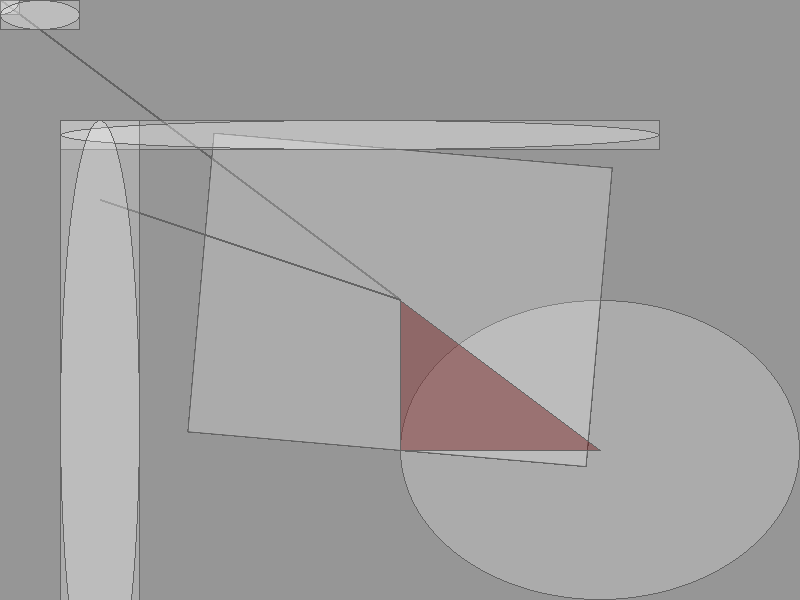
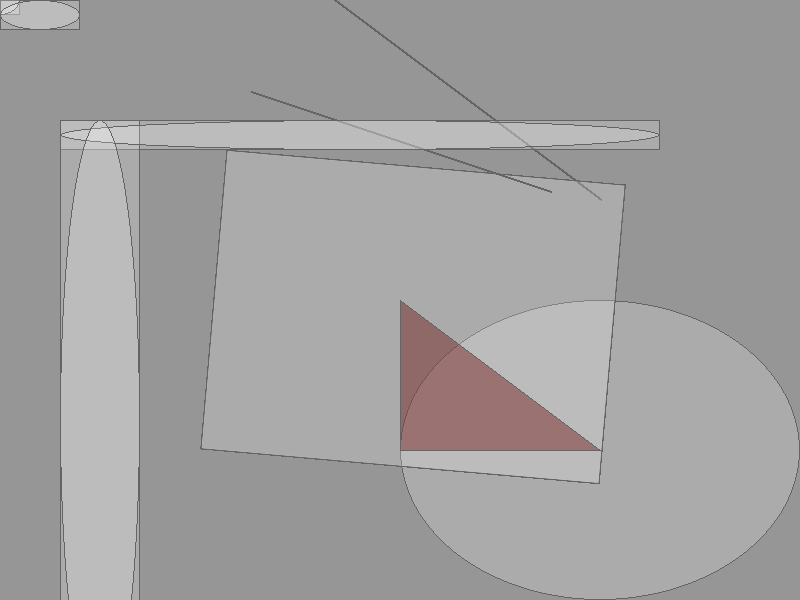
rebuild costume-getting, more robust and explicit approach to costumes

diff --git a/source/miniworlds/worlds/manager/position_manager.py b/source/miniworlds/worlds/manager/position_manager.py
@@ -37,11 +37,16 @@ class Positionmanager:
         return self._origin
 
     @origin.setter
-    def origin(self, value):
-        if value not in ["center", "topleft"]:
+    def origin(self, value: str) -> None:
+        """Set the origin. Only 'center' or 'topleft' are allowed."""
+        if value not in {"center", "topleft"}:
             raise exceptions.OriginException(self.actor)
+
         self._origin = value
-        self.actor.costume.origin_changed()
+
+        costume = self.actor.costume
+        if costume:
+            costume.origin_changed()
 
     def switch_origin(self, value: str):
         if self.origin == "center" and value == "topleft":
@@ -58,54 +63,66 @@ class Positionmanager:
         return self.actor
 
     def get_global_rect(self) -> pygame.Rect:
-        """Global rect is the the position of the actor on the global
-        world.
-        This position can be outside the current screen.
+        """Returns the global rect of the actor in the world space.
+        
+        This rect may lie outside the visible screen.
 
         Returns:
-            pygame.Rect: A rect with the token coordinates.
+            pygame.Rect: A rect with the actor's global coordinates.
         """
-        if self.actor.costume:
-            _rect = self.actor.costume.get_rect()
+        print("has costume", self.actor.costume_manager.has_costume)
+        if self.actor.costume_manager.has_costume:
+            costume = self.actor.costume
+            rect = costume.get_rect()
         else:
-            _rect = pygame.Rect(0, 0, self.actor.size[0], self.actor.size[1])
+            width, height = self.actor.size
+            rect = pygame.Rect(0, 0, width, height)
+
         if self.origin == "center":
-            _rect.center = self.get_center()
+            rect.center = self.get_center()
         elif self.origin == "topleft":
-            _rect.topleft = self.get_topleft()
-        return _rect
+            rect.topleft = self.get_topleft()
+        print("rect", rect)
+        return rect
 
     def get_local_rect(self) -> pygame.Rect:
         """
-        Local rect is the position of the actor on the view
-        (defined by camera view)
+        Returns the position of the actor on the screen (camera view).
+        
+        The local rect is derived from the global position and transformed
+        into the camera's coordinate system.
         """
-        _rect = self.get_global_rect()
+        rect = self.get_global_rect()
+
+        camera = self.actor.world.camera
         if self.origin == "center":
-            _rect.center = self.actor.world.camera.get_local_position(
-                self.get_center()
-            )
+            rect.center = camera.get_local_position(self.get_center())
         elif self.origin == "topleft":
-            _rect.topleft = self.actor.world.camera.get_local_position(
-                self.get_topleft()
-            )
+            rect.topleft = camera.get_local_position(self.get_topleft())
         else:
-            raise Exception
-        return _rect
-    
+            raise ValueError(f"Unsupported origin type: {self.origin!r}")
+        
+        return rect
+
     def get_screen_rect(self) -> pygame.Rect:
         """
-        Screen rect is the position of the actor inside the current screen.
-        (defined by camera view and window position of world)
+        Returns the position of the actor on the physical screen.
+        
+        The screen rect is based on global coordinates, transformed
+        by the camera and the world's window position.
         """
-        _rect = self.get_global_rect()
+        rect = self.get_global_rect()
+        camera = self.actor.world.camera
+
         if self.origin == "center":
-            _rect.center = self.actor.world.camera.get_screen_position(self.get_center())
+            rect.center = camera.get_screen_position(self.get_center())
         elif self.origin == "topleft":
-            _rect.topleft = self.actor.world.camera.get_screen_position(self.get_topleft())
+            rect.topleft = camera.get_screen_position(self.get_topleft())
         else:
-            raise Exception
-        return _rect
+            raise ValueError(f"Unsupported origin type: {self.origin!r}")
+
+        return rect
+
     
     def get_direction(self):
         direction = (self._direction + 180) % 360 - 180

diff --git a/source/miniworlds/actors/shapes/shapes.py b/source/miniworlds/actors/shapes/shapes.py
@@ -30,10 +30,13 @@ class Shape(actor.Actor):
 
     def __init__(self, position: Tuple[float, float] = (0, 0), *args, **kwargs):
         super().__init__(position, *args, **kwargs)
+        self.costume_manager.has_appearance = True
 
     def new_costume(self):
         return shape_costume.ShapeCostume(self)
 
+    def get_costume_class(self) -> type["costume_mod.Costume"]:
+        return shape_costume.ShapeCostume
 
 class Circle(Shape):
     """
@@ -66,6 +69,7 @@ class Circle(Shape):
     def __init__(self, position=(0, 0), radius: float = 10, *args, **kwargs):
         self._radius = radius
         super().__init__(position, *args, **kwargs)
+        self.costume = shape_costume.CircleCostume(self)
         self.position_manager.set_size((self._radius * 2, self._radius * 2), scale = False)
         
     @property
@@ -86,9 +90,6 @@ class Circle(Shape):
         self.physics.can_move = True
         self.physics.stable = False
 
-    def new_costume(self):
-        return shape_costume.CircleCostume(self)
-
     @classmethod
     def from_topleft(cls, position: tuple, radius: int, **kwargs):
         """Creates a circle with topleft at position"""
@@ -102,6 +103,12 @@ class Circle(Shape):
         circle = cls(position, radius, **kwargs)
         circle.origin = "center"
         return circle
+
+    def new_costume(self):
+        return shape_costume.CircleCostume(self)
+
+    def get_costume_class(self) -> type["costume_mod.Costume"]:
+        return shape_costume.CircleCostume
 
 
 class Point(Circle):
@@ -173,6 +180,11 @@ class Ellipse(Shape):
         ellipse.origin = "center"
         return ellipse
 
+    def new_costume(self):
+        return shape_costume.EllipseCostume(self)
+
+    def get_costume_class(self) -> type["costume_mod.Costume"]:
+        return shape_costume.EllipseCostume
 
 class Arc(Ellipse):
     """
@@ -365,6 +377,11 @@ class Line(Shape):
 
     line_width = thickness
 
+    def new_costume(self):
+        return shape_costume.LineCostume(self)
+
+    def get_costume_class(self) -> type["costume_mod.Costume"]:
+        return shape_costume.LineCostume
 
 class Rectangle(Shape):
     """
@@ -427,6 +444,13 @@ class Rectangle(Shape):
         rectangle = cls(position, width, height)
         rectangle.center = rectangle.position
         return rectangle
+
+
+    def new_costume(self):
+        return shape_costume.RectangleCostume(self)
+
+    def get_costume_class(self) -> type["costume_mod.Costume"]:
+        return shape_costume.RectangleCostume
 
 
 class Polygon(Shape):

diff --git a/source/miniworlds/worlds/world.py b/source/miniworlds/worlds/world.py
@@ -1097,19 +1097,18 @@ class World(world_base.WorldBase):
         wait = max(0, (1 / self.fps) - elapsed)
         await asyncio.sleep(wait)
         
-
     def _update_all_costumes(self):
-        """updates costumes for all actors on the world"""
-        [
-            actor.costume.update()
-            for actor in self.reload_costumes_queue
-            if actor.costume
-        ]
-        self.reload_costumes_queue = []
-        # Dynamic actors are updated every frame
-        # All other actors are updated when they are created.
+        """Updates the costumes of all actors in the world."""
+
+        for actor in self.reload_costumes_queue:
+            if actor.costume:
+                actor.costume.update()
+        self.reload_costumes_queue.clear()
+
         if hasattr(self, "dynamic_actors"):
-            [actor.costume.update() for actor in self.dynamic_actors if actor.costume]
+            for actor in self.dynamic_actors:
+                if actor.costume:
+                    actor.costume.update()
 
     def _act_all(self):
         """Overwritten in subclasses, e.g. physics_world"""

diff --git a/source/miniworlds/actors/actor.py b/source/miniworlds/actors/actor.py
@@ -569,9 +569,16 @@ class Actor(pygame.sprite.DirtySprite, metaclass=Meta):
 
     @property
     def costume(self) -> costume_mod.Costume:
-        """Gets the costume of actor"""
-        if hasattr(self, "costume_manager") and self.costume_manager is not None:
-            return self.costume_manager.get_actual_appearance()
+        """Gets the costume of the actor, if available."""
+        cm = getattr(self, "costume_manager", None)
+        if cm is not None: # not None instead of if cm:, because len(cm) can be zero
+            return cm.get_actual_appearance()
+
+    def has_costume(self):
+        cm = getattr(self, "costume_manager", None)
+        if not cm or not cm.has_appearance:
+            return False
+
 
     @costume.setter
     def costume(self, value):

diff --git a/source/miniworlds/appearances/appearances_manager.py b/source/miniworlds/appearances/appearances_manager.py
@@ -1,4 +1,6 @@
 from typing import Union, Tuple, List
+from abc import ABC, abstractmethod
+
 
 import miniworlds
 import miniworlds.appearances.appearance as appearance_mod
@@ -8,7 +10,8 @@ from miniworlds.base.exceptions import MiniworldsError
 import pygame
 
 
-class AppearancesManager:
+
+class AppearancesManager(ABC):
     def __init__(self, parent):
         self.appearances_list = []
         self.parent = parent
@@ -103,6 +106,7 @@ class AppearancesManager:
             appearance.add_image(source)
         return appearance
 
+    @abstractmethod
     def create_appearance(self) -> "appearance_mod.Appearance":
         """Returns a new appearance (Background instance or Costume instance)"""
         pass
@@ -371,5 +375,7 @@ class AppearancesManager:
         for appearance in self.appearances_list:
             appearance.border = value
 
-    def get_actual_appearance(self):
+    def get_actual_appearance(self) -> "appearance_mod.Appearance":
+        if not self.appearance:
+            self._add_default_appearance()
         return self.appearance

diff --git a/source/miniworlds/actors/texts/text.py b/source/miniworlds/actors/texts/text.py
@@ -123,3 +123,6 @@ class Text(actor.Actor):
     @value.setter
     def value(self, new_value):
         self.set_text(new_value)
+
+    def get_costume_class(self) -> type["costume_mod.Costume"]:
+        return text_costume.TextCostume

diff --git a/source/miniworlds/appearances/costumes_manager.py b/source/miniworlds/appearances/costumes_manager.py
@@ -43,7 +43,8 @@ class CostumesManager(appearances_manager.AppearancesManager):
         Returns:
             costume_mod-Costume: the new created costume.
         """
-        new_costume = self.actor.new_costume()
+        world_connector = self.actor.world.get_world_connector(self.actor)
+        new_costume = world_connector.create_costume()
         return new_costume
 
     @property

diff --git a/source/miniworlds/actors/texts/number.py b/source/miniworlds/actors/texts/number.py
@@ -79,7 +79,7 @@ class Number(text.Text):
 
     def inc(self):
         """Increases the number by one"""
-        self.number += 1
+        set_textself.number += 1
         self.update_text()
 
     def update_text(self):

diff --git a/source/miniworlds/base/manager/app_worlds_manager.py b/source/miniworlds/base/manager/app_worlds_manager.py
@@ -121,7 +121,7 @@ class WorldsManager:
         if reset:
             world.reset()
         if setup:
-            world.event_handler.setup_world()
+            world.event_manager.setup_world()
         world.background.set_dirty("all", 2)
         world.start_listening()
 

diff --git a/source/miniworlds/tools/method_caller.py b/source/miniworlds/tools/method_caller.py
@@ -44,4 +44,4 @@ def call_method(method: callable, arguments: Optional[tuple], allow_none=True):
                 method(arguments)
     except (ReferenceError, AttributeError) as e:
         # do nothing, if object does not exist.
-        print("Method caller prevented an error", e)
+        raise Exception("Method caller threw an error", e)

diff --git a/source/miniworlds/worlds/manager/event_manager.py b/source/miniworlds/worlds/manager/event_manager.py
@@ -63,6 +63,6 @@ class EventManager:
         self.handler.executed_events.clear()
 
     def setup_world(self):
-        if hasattr(self.world, "setup_world") and not self._setup_completed:
+        if hasattr(self.world, "on_setup") and not self._setup_completed:
             self.world.on_setup()
             self._setup_completed = True

diff --git a/source/miniworlds/worlds/tiled_world/tiled_world_position_manager.py b/source/miniworlds/worlds/tiled_world/tiled_world_position_manager.py
@@ -26,7 +26,7 @@ class TiledWorldPositionManager(actor_position_manager.Positionmanager):
         size = self.get_size()
         rect = (
             self.actor.costume.get_rect()
-            if self.actor.costume
+            if self.actor.has_costume()
             else pygame.Rect(0, 0, *size)
         )
 